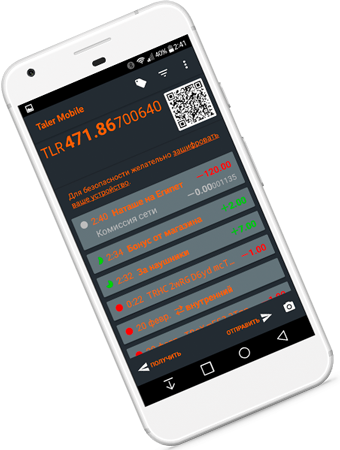
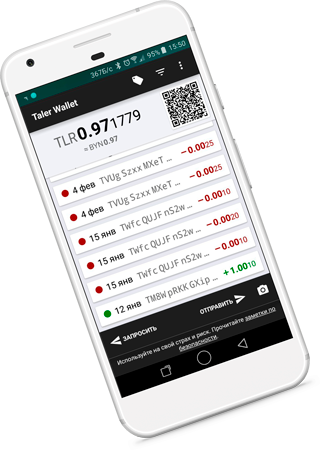
добавил ВК и второй кошелек

diff --git a/index.html b/index.html
@@ -262,7 +262,7 @@
 							    <li><a href="files/taler-qt.64.exe.rar" download><i class="fa fa-windows" aria-hidden="true"></i> &nbsp;Win 64</a></li>
 							    <li><a href="files/taler-qt-2-linux" download><i class="fa fa-linux" aria-hidden="true"></i> &nbsp;Linux</a></li>
 							    <li><a href="files/Taler-Qt-High-Sierra.dmg" download><i class="fa fa-apple" aria-hidden="true"></i> &nbsp;Mac</a></li>		
-							    <li><a href="https://play.google.com/store/apps/details?id=site.taler.wallet&hl=ru" target="_blank" rel="noopener"><i class="fa fa-android"></i></i> &nbsp;Android</a></li>    
+							    <li><a href="https://play.google.com/store/apps/details?id=xplatforms.taler.wallet" target="_blank" rel="noopener"><i class="fa fa-android"></i></i> &nbsp;Android</a></li>    
 							  </ul>
 						</div>
 					</div>
@@ -338,7 +338,8 @@
 				<div class="col-md-7">
 					<p>Покупай и продавай Талеры через телефон с помощью мобильного приложения</p>
 					<div class="mobile-button">
-						<a href="https://play.google.com/store/apps/details?id=site.taler.wallet&hl=ru"><img src="img/androidstorelogo2.png" alt="play market"></a>
+						<a href="https://play.google.com/store/apps/details?id=xplatforms.taler.wallet"><img src="img/androidstorelogo2.png" alt="play market"></a>
+						<a href="https://play.google.com/store/apps/details?id=site.taler.wallet&hl=ru"><img src="img/androidstorelogo3.png" alt="play market"></a>
 					</div>
 				</div>
 			</div>
@@ -492,7 +493,7 @@
 			</div>
 			<div class="buttons">
 				<div class="row">
-					<div class="col-sm-4"><a class="gradient-btn" href="https://talercoin.by/forumy" target="_blank" rel="noopener"><!-- <i class="fa fa-vk" aria-hidden="true"></i> --> Форум</a></div>
+					<div class="col-sm-4"><a class="gradient-btn" href="https://vk.com/taler_coin_official" target="_blank" rel="noopener"><i class="fa fa-vk" aria-hidden="true"></i> Вконтакте</a></div>
 					<div class="col-sm-4"><a class="gradient-btn" href="https://www.facebook.com/talerminsk" target="_blank" rel="noopener"><i class="fa fa-facebook-official" aria-hidden="true"></i> Facebook</a></div>
 					<div class="col-sm-4"><a class="gradient-btn" href="https://www.instagram.com/talerminsk" target="_blank" rel="noopener"><i class="fa fa-instagram"></i> Instagram</a></div>
 				</div>

diff --git a/en/index.html b/en/index.html
@@ -259,7 +259,7 @@
 							    <li><a href="../files/taler-qt.64.exe.rar" download><i class="fa fa-windows" aria-hidden="true"></i> &nbsp;Win 64</a></li>
 							    <li><a href="../files/taler-qt-2-linux" download><i class="fa fa-linux" aria-hidden="true"></i> &nbsp;Linux</a></li>
 							    <li><a href="../iles/Taler-Qt-High-Sierra.dmg" download><i class="fa fa-apple" aria-hidden="true"></i> &nbsp;Mac</a></li>		
-							    <li><a href="https://play.google.com/store/apps/details?id=site.taler.wallet&hl=ru" target="_blank" rel="noopener"><i class="fa fa-android"></i></i> &nbsp;Android</a></li>
+							    <li><a href="https://play.google.com/store/apps/details?id=xplatforms.taler.wallet" target="_blank" rel="noopener"><i class="fa fa-android"></i></i> &nbsp;Android</a></li>
 							  </ul>
 						</div>
 					</div>
@@ -335,7 +335,8 @@
 				<div class="col-md-7">
 					<p>Buy and sell Talers through your phone using a mobile app</p>
 					<div class="mobile-button">
-						<a href="https://play.google.com/store/apps/details?id=site.taler.wallet&hl=ru"><img src="../img/androidstorelogo2.png" alt="play market"></a>
+						<a href="https://play.google.com/store/apps/details?id=xplatforms.taler.wallet"><img src="../img/androidstorelogo2.png" alt="play market"></a>
+						<a href="https://play.google.com/store/apps/details?id=site.taler.wallet&hl=ru"><img src="../img/androidstorelogo3.png" alt="play market"></a>
 					</div>
 				</div>
 			</div>
@@ -488,7 +489,7 @@
 			</div>
 			<div class="buttons">
 				<div class="row">
-					<div class="col-sm-4"><a class="gradient-btn" href="https://talercoin.by/forumy/" target="_blank" rel="noopener"> Forum</a></div>
+					<div class="col-sm-4"><a class="gradient-btn" href="https://vk.com/taler_coin_official" target="_blank" rel="noopener"><i class="fa fa-vk" aria-hidden="true"></i> Vkontakte</a></div>
 					<div class="col-sm-4"><a class="gradient-btn" href="https://www.facebook.com/talerminsk" target="_blank" rel="noopener"><i class="fa fa-facebook-official" aria-hidden="true"></i> Facebook</a></div>
 					<div class="col-sm-4"><a class="gradient-btn" href="https://www.instagram.com/talerminsk" target="_blank" rel="noopener"><i class="fa fa-instagram"></i> Instagram</a></div>
 				</div>
